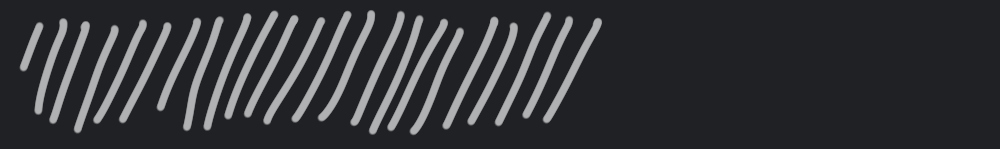
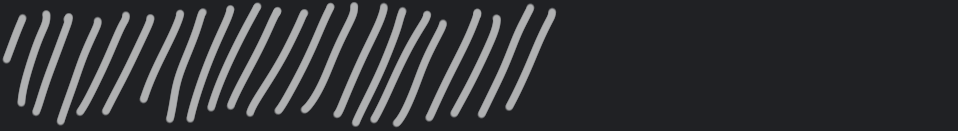
add loading-scrap

Changed region(s): [[0.0, 0.0305, 0.6054, 0.9771]]

diff --git a/src/components/WeatherCard/WeatherCard.scss b/src/components/WeatherCard/WeatherCard.scss
@@ -5,36 +5,39 @@
     }
 }
 
+.date span, .desc span {
+    min-height: 21px;
+}
+
 .loading-scrap {
-    background-image: url('../../assets/images/loading.png');
-    background-repeat: no-repeat;
-    background-position: left top;
+    position: absolute;
+    width: 100%;
+    height: 100%;
+
+    background: url('../../assets/images/loading.png') no-repeat top left;
     background-size: 100% 100%;
 
-    position: absolute;
-    width: 50%;
-    height: 1.2em;
-
+    clip-path: inset(0 0 0 0);
     transition-property: clip-path;
-    transition-timing-function: linear;
-    transition-duration: 0.5s;
-
-    clip-path: polygon(0 0, 100% 0, 100% 100%, 0 100%);
+    transition-duration: 1s;
+    transition-timing-function: ease-in-out;
 
     &.small {
-        background-image: url('../../assets/images/loading-small.png');
+        transition-duration: 0.5s;
     }
 
     &.show {
-        clip-path: polygon(0 0, 0% 0, 0% 100%, 0 100%);
+        clip-path: inset(0 100% 0 0);
     }
 }
 
 .date .loading-scrap {
+    background-image: url('../../assets/images/loading-small.png');
     transition-duration: 1s;
 }
 
 .desc .loading-scrap {
+    background-image: url('../../assets/images/loading-small.png');
     transition-duration: 1.5s;
 }
 
@@ -59,6 +62,7 @@
     font-size: 1.1em;
 
     .overlay {
+        width: 50%;
         position: relative;
 
         .icon {
@@ -82,11 +86,14 @@
         }
 
         .location {
+            position: relative;
             font-size: 1.6em;
+            min-height: 34px;
         }
 
         .date,
         .desc {
+            position: relative;
             opacity: 0.65;
             min-height: 21px;
         }
